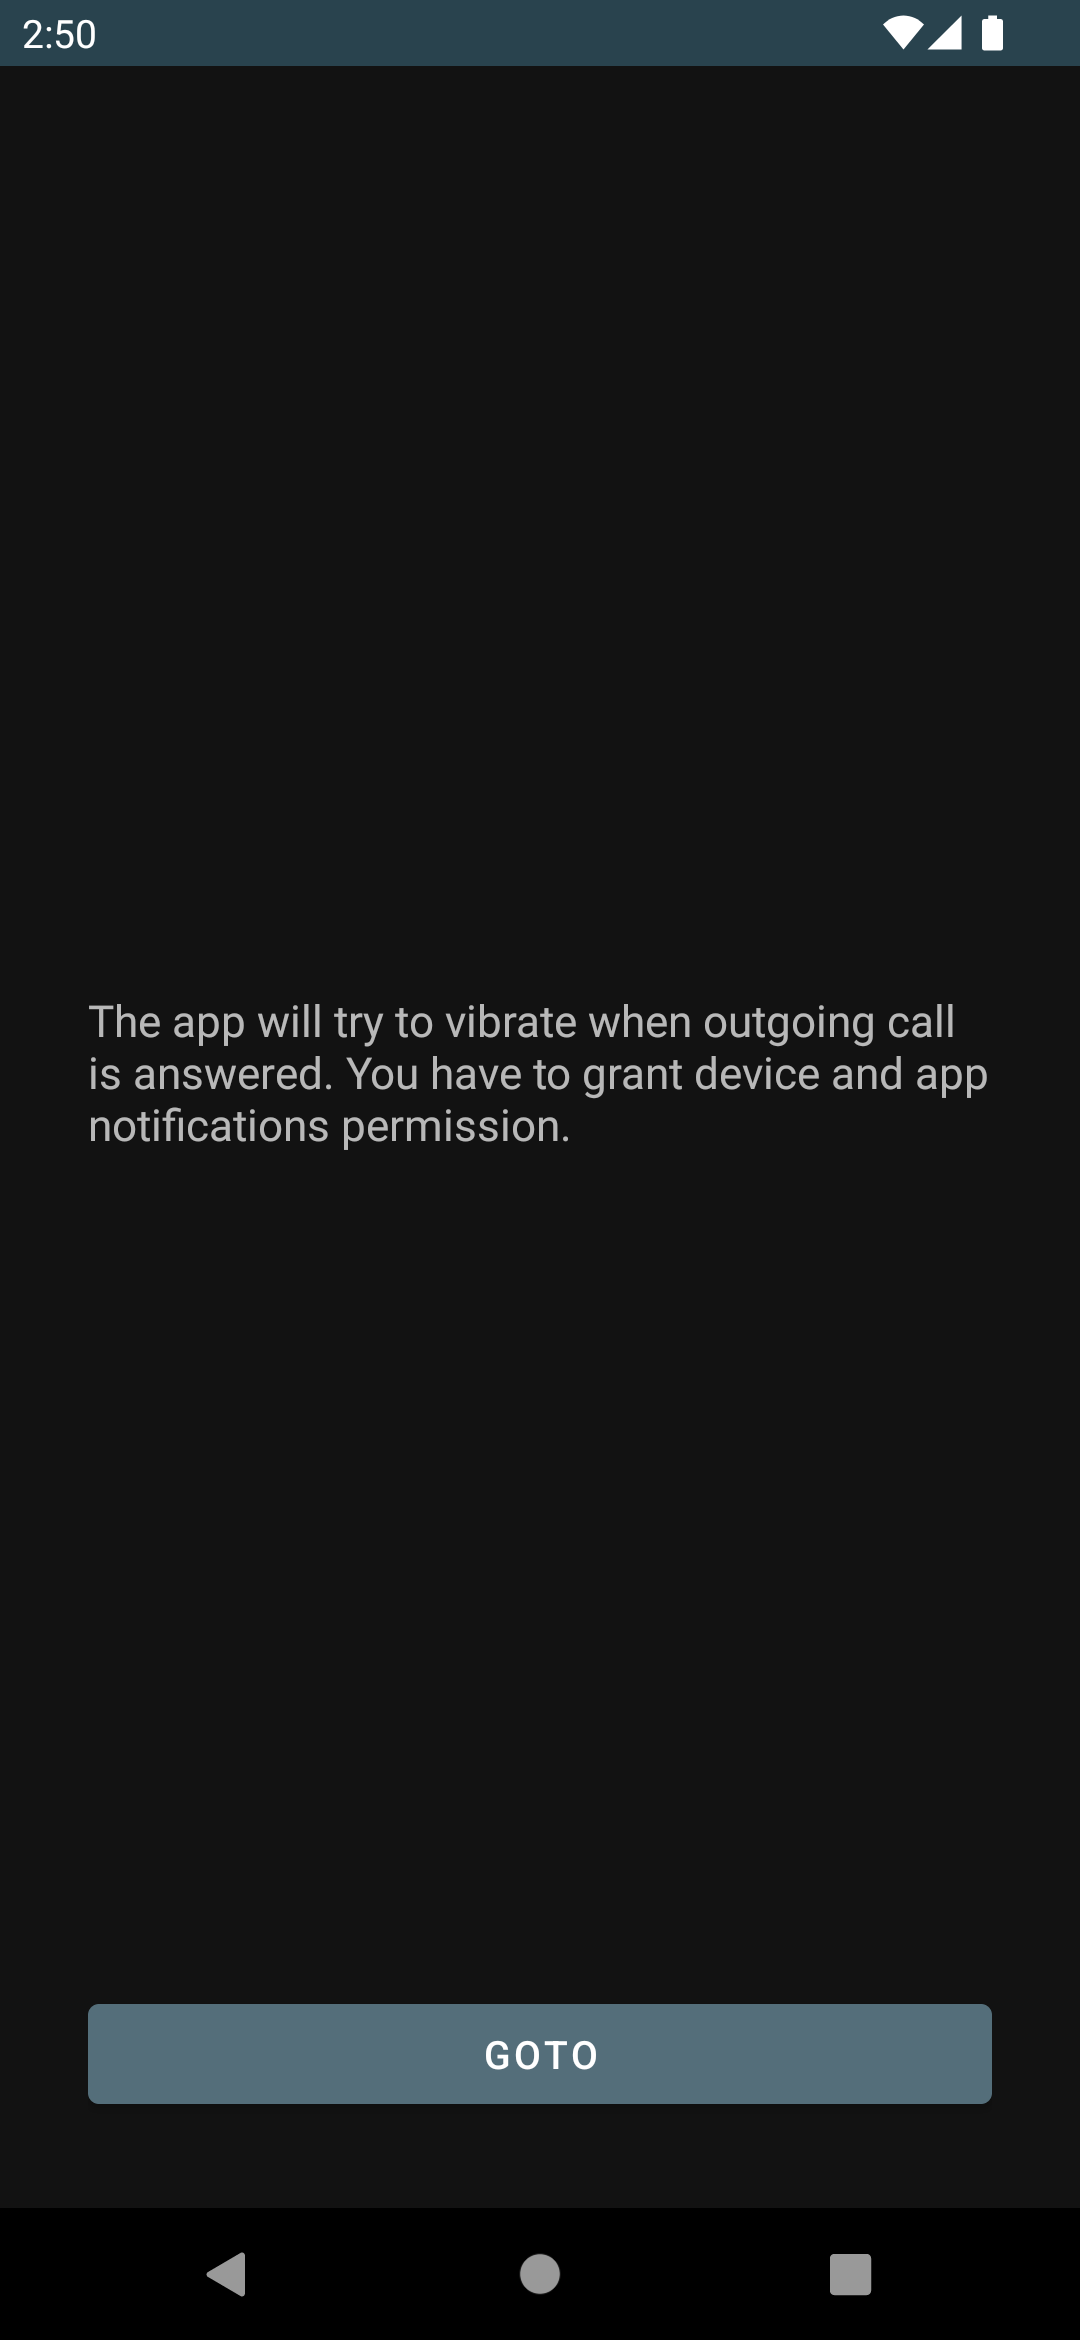
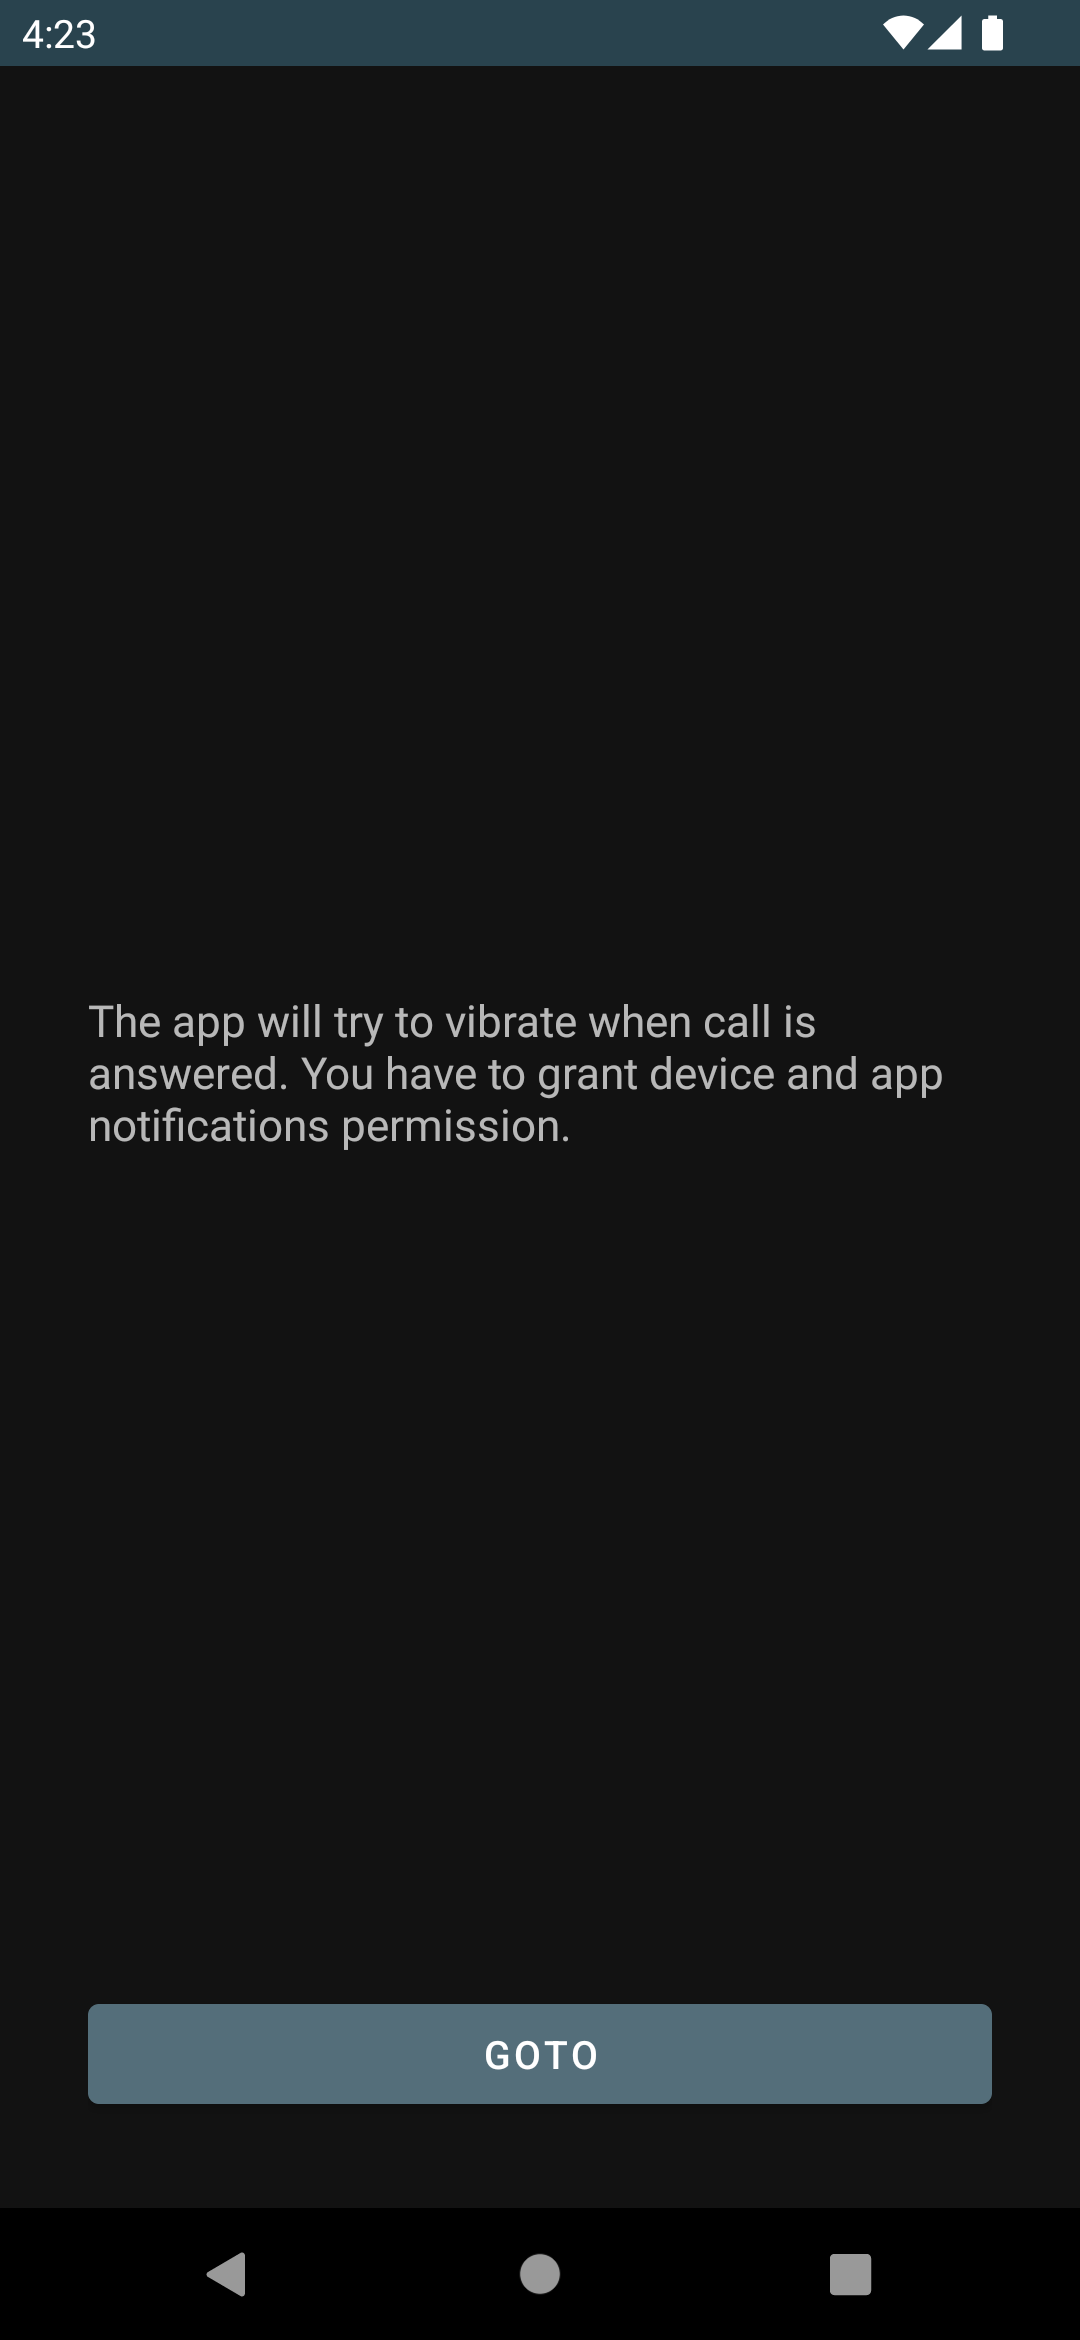
change detect call answer logic

Changed region(s): [[0.0917, 0.4056, 0.9167, 0.4679], [0.0306, 0.0, 0.0917, 0.0312]]

diff --git a/app/src/main/java/me/lucky/vibe/NotificationListenerService.kt b/app/src/main/java/me/lucky/vibe/NotificationListenerService.kt
@@ -18,21 +18,19 @@ class NotificationListenerService : NotificationListenerService() {
         private val VIBE_PATTERN = longArrayOf(50, 100, 50, 100)
     }
 
-    private lateinit var texts: Array<String>
-    private lateinit var vibrator: Vibrator
-    private lateinit var audioManager: AudioManager
+    private var audioManager: AudioManager? = null
+    private var vibrator: Vibrator? = null
     @RequiresApi(Build.VERSION_CODES.O)
     private var vibrationEffect: VibrationEffect? = null
 
     override fun onCreate() {
         super.onCreate()
-        texts = resources.getStringArray(R.array.texts)
+        audioManager = getSystemService(Context.AUDIO_SERVICE) as AudioManager?
         vibrator = if (Build.VERSION.SDK_INT >= Build.VERSION_CODES.S) {
-            (getSystemService(Context.VIBRATOR_MANAGER_SERVICE) as VibratorManager).defaultVibrator
+            (getSystemService(Context.VIBRATOR_MANAGER_SERVICE) as VibratorManager?)?.defaultVibrator
         } else {
-            getSystemService(Context.VIBRATOR_SERVICE) as Vibrator
+            getSystemService(Context.VIBRATOR_SERVICE) as Vibrator?
         }
-        audioManager = getSystemService(Context.AUDIO_SERVICE) as AudioManager
         if (Build.VERSION.SDK_INT >= Build.VERSION_CODES.O) {
             vibrationEffect = VibrationEffect.createWaveform(VIBE_PATTERN, -1)
         }
@@ -40,22 +38,18 @@ class NotificationListenerService : NotificationListenerService() {
 
     override fun onNotificationPosted(sbn: StatusBarNotification) {
         super.onNotificationPosted(sbn)
-        if (audioManager.mode != AudioManager.MODE_IN_CALL) return
-        if (!sbn.isOngoing || !sbn.packageName.endsWith(DIALER_SUFFIX)) return
-        val text = sbn
-            .notification
-            .extras
-            .getString(Notification.EXTRA_TEXT, "")
-            .lowercase()
-        if (text.isEmpty() || !texts.any { text.startsWith(it) }) return
+        if (audioManager?.mode != AudioManager.MODE_IN_CALL ||
+            !sbn.isOngoing ||
+            !sbn.packageName.endsWith(DIALER_SUFFIX) ||
+            !sbn.notification.extras.getBoolean(Notification.EXTRA_SHOW_CHRONOMETER)) return
         vibrate()
     }
 
     private fun vibrate() {
         if (Build.VERSION.SDK_INT >= Build.VERSION_CODES.O) {
-            vibrator.vibrate(vibrationEffect)
+            vibrator?.vibrate(vibrationEffect)
         } else {
-            vibrator.vibrate(VIBE_PATTERN, -1)
+            vibrator?.vibrate(VIBE_PATTERN, -1)
         }
     }
 

diff --git a/README.md b/README.md
@@ -7,7 +7,7 @@ Vibrate on answer.
      width="30%" 
      height="30%">
 
-Tiny app to vibrate when outgoing call is answered. Has to work with `AOSP` like dialers.
+Tiny app to vibrate when call is answered. Has to work with `AOSP` like dialers.
 
 ## Permissions
 
